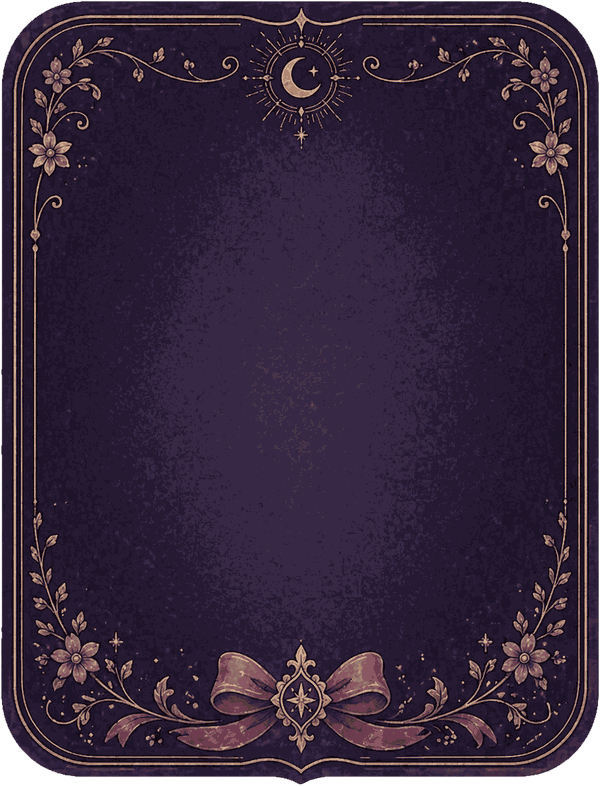
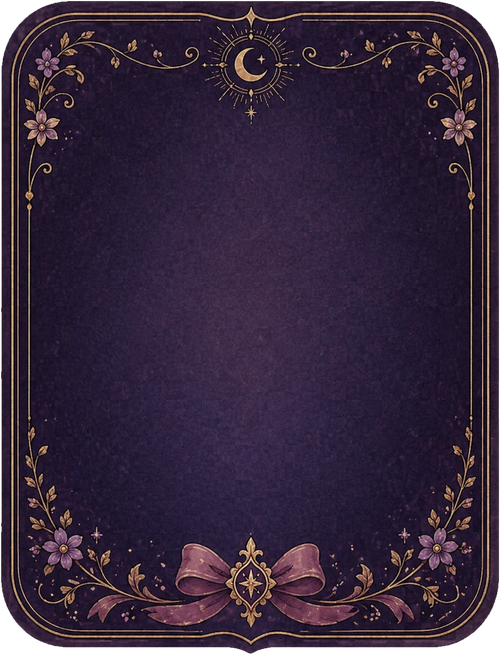
v=40: score frame uses DCE4B4FE asset; modal frame re-processed at full color
· score frame switched from modal-frame.png to DCE4B4FE — the
  user pointed out the wrong asset was being reused.  DCE4B4FE
  is the landscape ornate frame: bow on top, gold key at the
  bottom, crescent + star top corners, gold floral border.

· DCE4B4FE resized 1100 → 700 px wide (retina 2x for 350 px
  display) but kept FULL RGBA color depth — no palette quantize.
  1.39 MB → 600 KB.

· modal-frame.png re-processed the same way: 1122 → 500 px wide
  (was 600 px wide quantized to 128-color PNG8, which made the
  velvet body look murky per user — palette banding on the
  purple gradient).  Now 500 px wide, full color, 577 KB.

· Inner safe-zone on .score-frame tuned to clear DCE4B4FE's
  painted bow (top ~30 %) and key (bottom ~28 %).

diff --git a/index.html b/index.html
@@ -16,16 +16,16 @@
 
 <!-- Preload every background illustration in parallel so the
      screen-swap doesn't pause on a fresh download.                -->
-<link rel="preload" as="image" href="assets/bg-cover.png?v=39">
-<link rel="preload" as="image" href="assets/bg-stage.png?v=39">
-<link rel="preload" as="image" href="assets/bg-result.png?v=39">
-<link rel="preload" as="image" href="assets/bg-note.png?v=39">
-<link rel="preload" as="image" href="assets/banner.png?v=39">
-<link rel="preload" as="image" href="assets/3C68C8E6-B3FB-43A6-AE2C-CBDE19872718.png?v=39">
-<link rel="preload" as="image" href="assets/6794E86E-172C-4BB8-ACCB-A167D352E97B.png?v=39">
-<link rel="preload" as="image" href="assets/E993B660-7AD9-4806-AA02-4ADC58F30901.png?v=39">
+<link rel="preload" as="image" href="assets/bg-cover.png?v=40">
+<link rel="preload" as="image" href="assets/bg-stage.png?v=40">
+<link rel="preload" as="image" href="assets/bg-result.png?v=40">
+<link rel="preload" as="image" href="assets/bg-note.png?v=40">
+<link rel="preload" as="image" href="assets/banner.png?v=40">
+<link rel="preload" as="image" href="assets/3C68C8E6-B3FB-43A6-AE2C-CBDE19872718.png?v=40">
+<link rel="preload" as="image" href="assets/6794E86E-172C-4BB8-ACCB-A167D352E97B.png?v=40">
+<link rel="preload" as="image" href="assets/E993B660-7AD9-4806-AA02-4ADC58F30901.png?v=40">
 
-<link rel="stylesheet" href="styles.css?v=39">
+<link rel="stylesheet" href="styles.css?v=40">
 </head>
 <body>
 
@@ -37,7 +37,7 @@
 
 <!-- Fixed banner at the very top of every screen. -->
 <header id="banner-top">
-  <img src="assets/banner.png?v=39" alt="Her Little Lexicon">
+  <img src="assets/banner.png?v=40" alt="Her Little Lexicon">
 </header>
 
 <!-- ===== App shell. Each <section> is one screen. =====
@@ -72,9 +72,9 @@
 
 <!-- Data + BGM + App  ----- loaded in order.  Query-string cache-buster
      forces the CDN edge to fetch the latest after every push.        -->
-<script src="data.js?v=39"></script>
-<script src="bgm.js?v=39"></script>
-<script src="app.js?v=39"></script>
+<script src="data.js?v=40"></script>
+<script src="bgm.js?v=40"></script>
+<script src="app.js?v=40"></script>
 
 </body>
 </html>

diff --git a/styles.css b/styles.css
@@ -1768,22 +1768,31 @@ body { background: transparent !important; }
    identical: chapter → painted frame → content list.               */
 .score-frame {
   position: relative;
-  width: min(64vw, 260px);
-  aspect-ratio: 600 / 786;
+  /* DCE4B4FE landscape asset — 1100/783 = 1.405.  Bow + key + moon +
+     gold florals are all painted in.  The inner safe-zone (measured
+     from the painted ornaments):
+       top    ~22 %  (clear of the bow + moon + star top ornaments)
+       bottom ~22 %  (clear of the gold key at the base)
+       sides  ~16 %  (clear of the floral side trails)
+     so the score number sits centred in the open velvet field.    */
+  width: min(82vw, 360px);
+  aspect-ratio: 1100 / 783;
   margin: -2px auto 6px;
   background:
-    url("assets/modal-frame.png?v=37")
+    url("assets/DCE4B4FE-19E7-4404-93CF-D8A57B6B2AB6.png?v=40")
     center/100% 100% no-repeat;
   filter: drop-shadow(0 8px 22px rgba(0, 0, 0, 0.50));
 }
 .score-frame .score-frame-inner {
   position: absolute;
-  inset: 16% 12% 24% 12%;
+  /* The DCE4B4FE bow extends down ~30 % from the top; key extends
+     up ~28 % from the bottom.  Inner safe-zone clears both.       */
+  inset: 32% 18% 30% 18%;
   display: flex;
   flex-direction: column;
   align-items: center;
   justify-content: center;
-  gap: 4px;
+  gap: 2px;
 }
 .score-frame .sf-label {
   font-family: 'Cinzel', 'Cormorant Garamond', serif;
@@ -3611,7 +3620,7 @@ body { background: transparent !important; }
   width: min(70vw, 280px) !important;
   aspect-ratio: 600 / 786;
   background:
-    url("assets/modal-frame.png?v=37")
+    url("assets/modal-frame.png?v=40")
     center/100% 100% no-repeat !important;
   border: 0 !important;
   border-radius: 0 !important;
